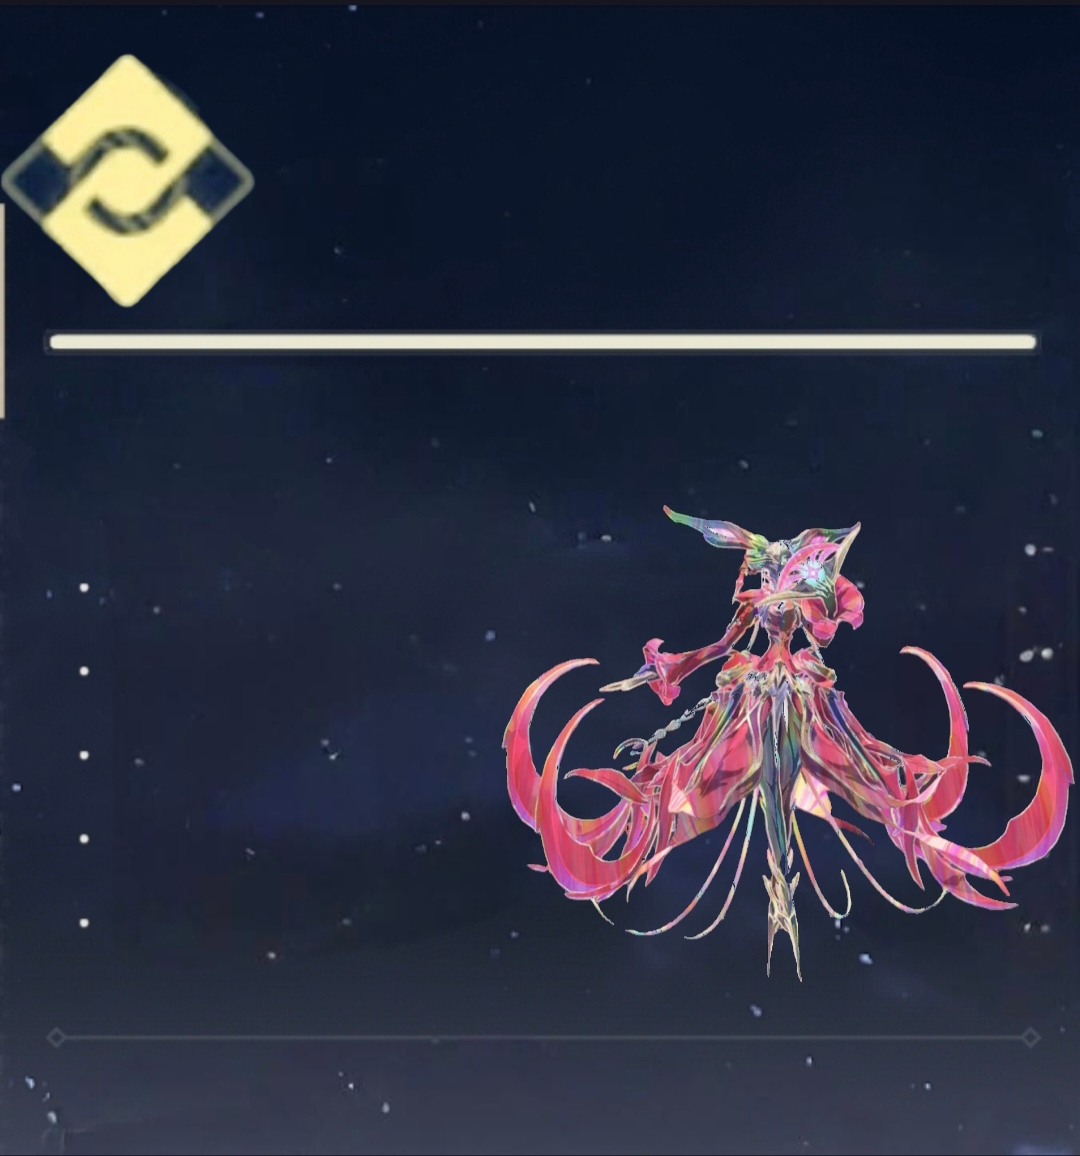
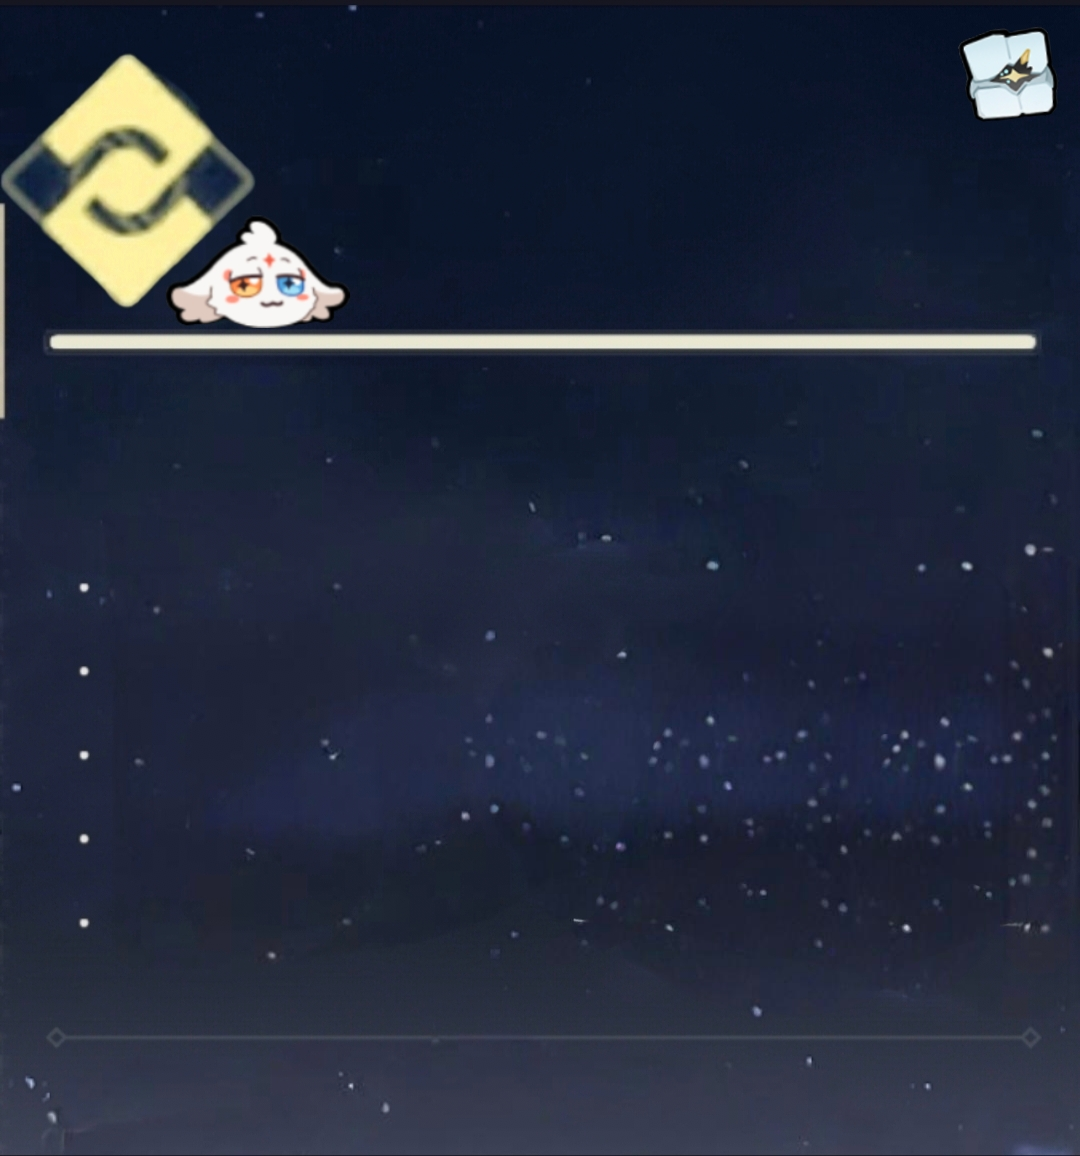
优化声骸模拟

Changed region(s): [[0.4583, 0.436, 1.0, 0.8408], [0.1528, 0.1869, 0.3361, 0.2803], [0.8861, 0.0, 0.9778, 0.1246]]

diff --git a/apps/Shock.js b/apps/Shock.js
@@ -1,6 +1,9 @@
 import plugin from '../../../lib/plugins/plugin.js';
 import Render from '../components/Render.js';
 import moment from 'moment';
+import fs from 'fs';
+import path from 'path';
+import YAML from 'yaml';
 
 export class Shock extends plugin {
     constructor() {
@@ -10,11 +13,16 @@ export class Shock extends plugin {
             priority: 1009,
             rule: [
                 {
-                    reg: "^(～|~|鸣潮)(今日)?(梭哈|梭哈|suoha|嗦哈|shuoha)$",
+                    reg: "^(～|~|鸣潮)(今日)?(梭哈|梭哈|suoha|嗦哈|shuoha)(.*)$",
                     fnc: "shockSimulate"
                 }
             ]
         });
+        
+        // 初始化角色数据
+        this.characterData = this.initCharacterData();
+        // 加载别名数据
+        this.aliasData = this.loadAliasData();
     }
 
     async shockSimulate(e) {
@@ -24,10 +32,18 @@ export class Shock extends plugin {
             const redisKey = `Shock:${userID}:${dateKey}`;
             
             let count = parseInt(await redis.get(redisKey) || 0);
-            if (count >= 20) {
+            if (count >= 999) {
                 await e.reply(`今日梭哈次数已达上限（20/20），请明天再来！`);
                 return true;
             }
+            
+            // 解析角色名称
+            const msg = e.msg.trim();
+            const match = msg.match(/^(～|~|鸣潮)(今日)?(梭哈|梭哈|suoha|嗦哈|shuoha)(.*)$/);
+            const characterInput = match && match[4] ? match[4].trim() : '';
+            
+            // 获取角色信息
+            const characterInfo = this.getCharacterInfo(characterInput);
             
             // 获取用户信息
             let nickName = `用户${userID}`;
@@ -36,10 +52,8 @@ export class Shock extends plugin {
                     const memberInfo = await e.group.getMemberMap();
                     const member = memberInfo.get(userID);
                     nickName = member?.card || member?.nickname || nickName;
-                } else {
-                    const friendInfo = await Bot.getFriendInfo(userID);
-                    nickName = friendInfo?.nickname || nickName;
                 }
+                // 移除私聊情况下的用户信息获取，避免API不兼容问题
             } catch (err) {
                 logger.error('获取用户信息失败：', err);
             }
@@ -53,6 +67,7 @@ export class Shock extends plugin {
                 count: count + 1,
                 randomHint: this.getRandomHint(),
                 qq: userID,
+                character: characterInfo,
                 baseInfo: {
                     nickName: nickName
                 }
@@ -77,13 +92,126 @@ export class Shock extends plugin {
         }
     }
 
+    // 加载别名数据
+    loadAliasData() {
+        try {
+            // 获取当前文件的目录路径
+            const currentFileDir = path.dirname(import.meta.url.replace('file:///', ''));
+            // 从 waves-plugin/apps 回到 waves-plugin 根目录
+            const pluginRootDir = path.resolve(currentFileDir, '..');
+            // 拼接到别名文件路径
+            const aliasPath = path.join(pluginRootDir, 'resources', 'Alias', 'custom', 'custom.yaml');
+            
+            logger.info('尝试加载别名文件：', aliasPath);
+            
+            // 检查文件是否存在
+            if (!fs.existsSync(aliasPath)) {
+                logger.warn('别名文件不存在：', aliasPath);
+                return {};
+            }
+            
+            const yamlContent = fs.readFileSync(aliasPath, 'utf8');
+            return YAML.parse(yamlContent);
+        } catch (err) {
+            logger.error('加载别名数据失败：', err);
+            logger.error('当前工作目录：', process.cwd());
+            logger.error('当前文件路径：', import.meta.url);
+            return {};
+        }
+    }
+
+    // 初始化角色数据（仅保留名称列表）
+    initCharacterData() {
+        return [
+            "今汐", "鉴心", "维里奈", "相里要", "忌炎", "弗洛洛", "洛可可", "尤诺", "奥古斯塔", "露帕", "卡提希娅", "夏空", "赞妮", "坎特蕾拉", "布兰特", "菲比", "珂莱塔", "守岸人", "长离", "椿", 
+            "折枝", "吟霖", "安可", "忌炎", "男漂泊者", "灯灯", "女漂泊者", "釉瑚", "秋水", "凌阳", "白芷", "渊武", "炽霞", "秧秧", 
+            "桃祈", "莫特斐", "丹瑾", "散华", "卡卡罗"
+        ];
+    }
+
+    // 获取角色信息
+    getCharacterInfo(input) {
+        const characters = this.characterData;
+        
+        if (!input) {
+            // 没有指定角色，随机选择一个
+            const randomName = characters[Math.floor(Math.random() * characters.length)];
+            return { name: randomName, image: `${randomName}.png` };
+        }
+        
+        // 首先尝试直接匹配
+        if (characters.includes(input)) {
+            return { name: input, image: `${input}.png` };
+        }
+        
+        // 通过别名匹配
+        const matchedName = this.matchCharacterByAlias(input);
+        if (matchedName && characters.includes(matchedName)) {
+            return { name: matchedName, image: `${matchedName}.png` };
+        }
+        
+        // 模糊匹配角色名
+        const fuzzyMatchedName = this.fuzzyMatchCharacter(input, characters);
+        if (fuzzyMatchedName) {
+            return { name: fuzzyMatchedName, image: `${fuzzyMatchedName}.png` };
+        }
+        
+        // 如果没有匹配到，返回随机角色
+        const randomName = characters[Math.floor(Math.random() * characters.length)];
+        return { name: randomName, image: `${randomName}.png` };
+    }
+
+    // 通过别名匹配角色
+    matchCharacterByAlias(input) {
+        const normalizedInput = input.toLowerCase().trim();
+        
+        for (const [characterName, aliases] of Object.entries(this.aliasData)) {
+            // 检查是否与角色主名匹配
+            if (characterName.toLowerCase() === normalizedInput) {
+                return characterName;
+            }
+            
+            // 检查是否与别名匹配
+            if (Array.isArray(aliases)) {
+                for (const alias of aliases) {
+                    if (alias.toLowerCase() === normalizedInput) {
+                        return characterName;
+                    }
+                }
+            }
+        }
+        
+        return null;
+    }
+
+    // 模糊匹配角色名
+    fuzzyMatchCharacter(input, characterNames) {
+        const normalizedInput = input.toLowerCase().replace(/\s+/g, '');
+        
+        // 完全匹配
+        for (const name of characterNames) {
+            if (name.toLowerCase() === normalizedInput) {
+                return name;
+            }
+        }
+        
+        // 包含匹配
+        for (const name of characterNames) {
+            if (name.toLowerCase().includes(normalizedInput) || normalizedInput.includes(name.toLowerCase())) {
+                return name;
+            }
+        }
+        
+        return null;
+    }
+
     getRandomHint() {
         const hints = [
             "声骇共鸣，运势如虹！",
             "今日欧气满满，宜强化！",
             "高频共振，好运连连！",
             "能量满溢，心想事成！",
-            "共鸣之力，助你横扫深渊！",
+            "共鸣之力，助你横扫深塔！",
             "异感波动，好运降临！",
             "声骸之力，无往不利！",
             "今日手气爆棚，再来一发！",

diff --git a/resources/Template/Shock/shock.css b/resources/Template/Shock/shock.css
@@ -24,7 +24,7 @@
     background-size: cover;
     width: 1080px;
     height: 1156px;
-
+}
 
 .container {
     width: 1080px;
@@ -112,13 +112,57 @@
     left: 40%;
 }
 
+/* 角色立绘样式 */
+.character-display {
+    position: absolute;
+    top: 150px;
+    left: 700px;
+    width: 600px;
+    height: 1200px;
+    display: flex;
+    flex-direction: column;
+    align-items: center;
+    z-index: 2;
+    overflow: visible;
+}
+
+.character-display img {
+    width: 600px;
+    height: 1200px;
+    object-fit: contain;
+    object-position: center top;
+    border-radius: 15px;
+}
+
+
+.character-display img:hover {
+    transform: scale(1.02);
+}
+
+.character-info {
+    margin-top: 5px;                /* 与上方图片的间距 */
+    text-align: center;              /* 文字居中 */
+    background: rgba(20, 35, 60, 0.8); /* 半透明深蓝背景 */
+    border-radius: 10px;             /* 圆角 */
+    padding: 10px 20px;              /* 内边距 */
+    backdrop-filter: blur(5px);      /* 背景模糊效果 */
+}
+
+.character-name {
+    font-size: 32px;
+    color: #f6e05e;
+    font-weight: bold;
+    margin-bottom: 5px;
+}
+
+
 .artifact-container {
     position: absolute;
     top: 425px;
     left: 90px;
     width: 500px;
     height: 600px;
-
+    z-index: 3;
 }
 
 .artifact-header {
@@ -150,7 +194,6 @@
     text-align: center;
 }
 
-
 .stat-item {
     display: flex;
     justify-content: space-between;
@@ -158,7 +201,6 @@
     padding: 15px 0;
     border-bottom: 1px solid rgba(100, 150, 255, 0.1);
 }
-
 
 .stat-name {
     font-size: 40px;
@@ -204,7 +246,6 @@
     100% { opacity: 0.8; }
 }
 
-
 #copyright {
     position: absolute;
     bottom: 1px;
@@ -221,4 +262,21 @@
     color: #d3bc8e;
     display: inline-block;
     padding: 0 3px;
+}
+
+/* 响应式调整 */
+@media (max-width: 1200px) {
+    .character-display {
+        right: 30px;
+        width: 280px;
+    }
+    
+    .character-display img {
+        width: auto;
+        height: 900px;
+    }
+    
+    .artifact-container {
+        width: 450px;
+    }
 }

diff --git a/resources/Template/Shock/shock.html b/resources/Template/Shock/shock.html
@@ -24,9 +24,17 @@
             <div class="subtitle">今日梭哈 · 随机词条</div>
         </div>
         
+        <!-- 角色立绘区域 -->
+        <div class="character-display">
+            <img src="{{pluginResources}}/Template/Shock/characters/{{character.image}}" alt="{{character.name}}" onerror="this.style.display='none';">
+            <div class="character-info">
+                <div class="character-name">{{character.name}}</div>
+            </div>
+        </div>
+        
         <div class="artifact-container">
             <div class="artifact-header">
-                <div class="artifact-name">虚拟声骇 </div>
+                <div class="artifact-name">虚拟声骇</div>
                 <div class="artifact-type">5星声骇</div>
             </div>
             
